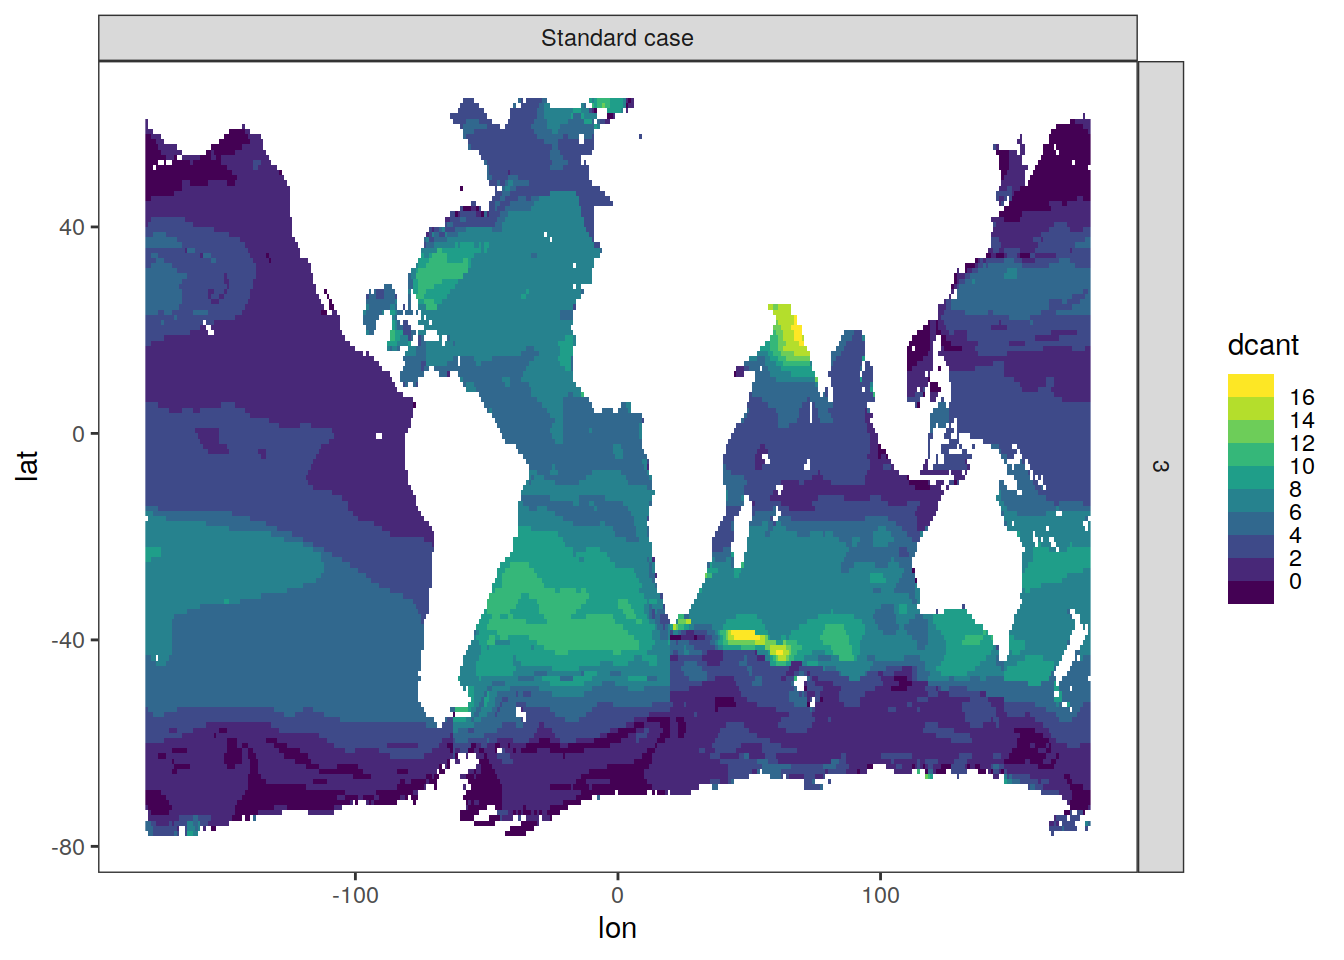
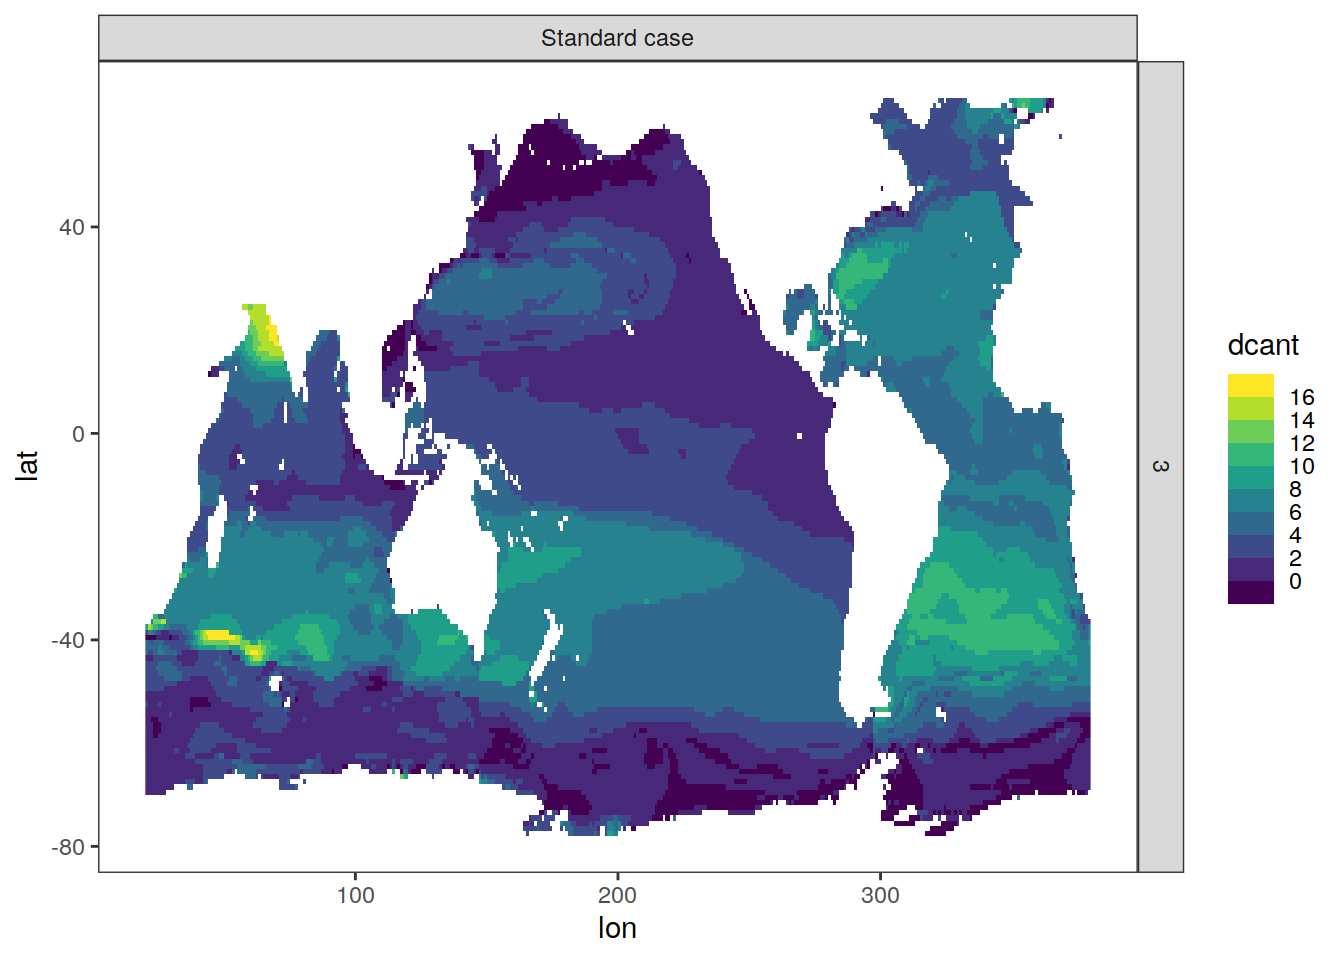
Build site.

diff --git a/docs/compute_OIA.html b/docs/compute_OIA.html
@@ -385,7 +385,7 @@ div.tocify {
 
 <h1 class="title toc-ignore">OIA computation</h1>
 <h4 class="author">Jens Daniel Müller</h4>
-<h4 class="date">22 October, 2023</h4>
+<h4 class="date">23 October, 2023</h4>
 
 </div>
 
@@ -414,7 +414,7 @@ class="glyphicon glyphicon-ok text-success" aria-hidden="true"></span>
 <div class="tab-content">
 <div id="summary" class="tab-pane fade in active">
 <p>
-<strong>Last updated:</strong> 2023-10-22
+<strong>Last updated:</strong> 2023-10-23
 </p>
 <p>
 <strong>Checks:</strong> <span
@@ -546,15 +546,15 @@ project makes it easier to run your code on other machines.</p>
 <div class="panel panel-default">
 <div class="panel-heading">
 <p class="panel-title">
-<a data-toggle="collapse" data-parent="#workflowr-checks" href="#strongRepositoryversionstrongahrefhttpsgithubcomjensdanielmuelleroceaninterioracidificationtree4f197d722cdc6802168fb30d444dffc202310ba9targetblank4f197d7a">
+<a data-toggle="collapse" data-parent="#workflowr-checks" href="#strongRepositoryversionstrongahrefhttpsgithubcomjensdanielmuelleroceaninterioracidificationtreeafe3b037bbba210018c9cf90bdb3f4d84c6400dbtargetblankafe3b03a">
 <span class="glyphicon glyphicon-ok text-success"
 aria-hidden="true"></span> <strong>Repository version:</strong>
-<a href="https://github.com/jens-daniel-mueller/ocean_interior_acidification/tree/4f197d722cdc6802168fb30d444dffc202310ba9" target="_blank">4f197d7</a>
+<a href="https://github.com/jens-daniel-mueller/ocean_interior_acidification/tree/afe3b037bbba210018c9cf90bdb3f4d84c6400db" target="_blank">afe3b03</a>
 </a>
 </p>
 </div>
 <div
[2 lines of base64/hex data omitted]
 class="panel-collapse collapse">
 <div class="panel-body">
 <p>
@@ -564,7 +564,7 @@ reproducibility.
 </p>
 <p>
 The results in this page were generated with repository version
-<a href="https://github.com/jens-daniel-mueller/ocean_interior_acidification/tree/4f197d722cdc6802168fb30d444dffc202310ba9" target="_blank">4f197d7</a>.
+<a href="https://github.com/jens-daniel-mueller/ocean_interior_acidification/tree/afe3b037bbba210018c9cf90bdb3f4d84c6400db" target="_blank">afe3b03</a>.
 See the <em>Past versions</em> tab to see a history of the changes made
 to the R Markdown and HTML files.
 </p>
@@ -634,6 +634,40 @@ Message
 </tr>
 </thead>
 <tbody>
+<tr>
+<td>
+Rmd
+</td>
+<td>
+<a href="https://github.com/jens-daniel-mueller/ocean_interior_acidification/blob/afe3b037bbba210018c9cf90bdb3f4d84c6400db/analysis/compute_OIA.Rmd" target="_blank">afe3b03</a>
+</td>
+<td>
+jens-daniel-mueller
+</td>
+<td>
+2023-10-23
+</td>
+<td>
+harmonized horizontal grid
+</td>
+</tr>
+<tr>
+<td>
+html
+</td>
+<td>
+<a href="https://rawcdn.githack.com/jens-daniel-mueller/ocean_interior_acidification/6aefd0346d4bbc1cc6f30fc083a453fb5cb0e11f/docs/compute_OIA.html" target="_blank">6aefd03</a>
+</td>
+<td>
+jens-daniel-mueller
+</td>
+<td>
+2023-10-23
+</td>
+<td>
+Build site.
+</td>
+</tr>
 <tr>
 <td>
 Rmd
@@ -1407,6 +1441,11 @@ rm(dcant_3d_read_mdim, file_out)
 dcant_3d_tibble &lt;- dcant_3d_tibble %&gt;% 
   drop_na()
 
+dcant_3d_tibble &lt;-
+  dcant_3d_tibble %&gt;% 
+  mutate(lon = ifelse(lon &lt; 20, lon + 360, lon))
+
+
 # remove negative delta Cant
 # dcant_3d_tibble &lt;- dcant_3d_tibble
 #   mutate(dcant = if_else(dcant &lt; 0, 0, dcant))
@@ -1604,7 +1643,7 @@ for (file in file_list) {
                           var = parameter))
   
 
-  # write csv file
+  # join error fields
   
   if (exists(&quot;GLODAP_predictors_error&quot;)) {
     GLODAP_predictors_error &lt;- full_join(GLODAP_predictors_error, clim_tibble)
@@ -1978,9 +2017,9 @@ predictors &lt;- rquery::natural_join(predictors, WOA18_predictors_nuts_O2,
                            jointype = &quot;LEFT&quot;) %&gt;% 
   as_tibble()
 
+
 predictors &lt;- predictors %&gt;% 
   drop_na()
-
 
 rm(GLODAP_predictors, WOA18_predictors_nuts_O2, WOA18_predictors)</code></pre>
 </div>
@@ -2009,8 +2048,6 @@ coord_grid &lt;-
   inner_join(coord_grid,
              GLODAP_predictors_error %&gt;%
                distinct(lon, lat, depth))
-
-
 
 # restrict CO2 fields to common grid
 
@@ -2276,7 +2313,15 @@ calc_delta_interval &lt;- function(x)
 </div>
 <div id="compute-acidification-trends" class="section level1">
 <h1>Compute acidification trends</h1>
-<pre class="r"><code>for (i in 1:nrow(cases)) {
+<pre class="r"><code># DIC %&gt;%
+#   distinct(lon, lat, tref, MLR_basin_mask) %&gt;%
+#   ggplot(aes(lon, lat)) +
+#   geom_raster(data = basinmask) +
+#   geom_raster(fill = &quot;red&quot;) +
+#   facet_grid(MLR_basin_mask~tref)
+
+
+for (i in 1:nrow(cases)) {
   # i &lt;- 1
   
   i_MLR_configuration &lt;-  cases[i, ]$MLR_configuration

diff --git a/docs/index.html b/docs/index.html
@@ -329,7 +329,7 @@ class="glyphicon glyphicon-ok text-success" aria-hidden="true"></span>
 <div class="tab-content">
 <div id="summary" class="tab-pane fade in active">
 <p>
-<strong>Last updated:</strong> 2023-10-22
+<strong>Last updated:</strong> 2023-10-23
 </p>
 <p>
 <strong>Checks:</strong> <span
@@ -377,15 +377,15 @@ results.</p>
 <div class="panel panel-default">
 <div class="panel-heading">
 <p class="panel-title">
-<a data-toggle="collapse" data-parent="#workflowr-checks" href="#strongRepositoryversionstrongahrefhttpsgithubcomjensdanielmuelleroceaninterioracidificationtree4f197d722cdc6802168fb30d444dffc202310ba9targetblank4f197d7a">
+<a data-toggle="collapse" data-parent="#workflowr-checks" href="#strongRepositoryversionstrongahrefhttpsgithubcomjensdanielmuelleroceaninterioracidificationtreeafe3b037bbba210018c9cf90bdb3f4d84c6400dbtargetblankafe3b03a">
 <span class="glyphicon glyphicon-ok text-success"
 aria-hidden="true"></span> <strong>Repository version:</strong>
-<a href="https://github.com/jens-daniel-mueller/ocean_interior_acidification/tree/4f197d722cdc6802168fb30d444dffc202310ba9" target="_blank">4f197d7</a>
+<a href="https://github.com/jens-daniel-mueller/ocean_interior_acidification/tree/afe3b037bbba210018c9cf90bdb3f4d84c6400db" target="_blank">afe3b03</a>
 </a>
 </p>
 </div>
 <div
[2 lines of base64/hex data omitted]
 class="panel-collapse collapse">
 <div class="panel-body">
 <p>
@@ -395,7 +395,7 @@ reproducibility.
 </p>
 <p>
 The results in this page were generated with repository version
-<a href="https://github.com/jens-daniel-mueller/ocean_interior_acidification/tree/4f197d722cdc6802168fb30d444dffc202310ba9" target="_blank">4f197d7</a>.
+<a href="https://github.com/jens-daniel-mueller/ocean_interior_acidification/tree/afe3b037bbba210018c9cf90bdb3f4d84c6400db" target="_blank">afe3b03</a>.
 See the <em>Past versions</em> tab to see a history of the changes made
 to the R Markdown and HTML files.
 </p>
@@ -464,6 +464,23 @@ Message
 </tr>
 </thead>
 <tbody>
+<tr>
+<td>
+html
+</td>
+<td>
+<a href="https://rawcdn.githack.com/jens-daniel-mueller/ocean_interior_acidification/6aefd0346d4bbc1cc6f30fc083a453fb5cb0e11f/docs/index.html" target="_blank">6aefd03</a>
+</td>
+<td>
+jens-daniel-mueller
+</td>
+<td>
+2023-10-23
+</td>
+<td>
+Build site.
+</td>
+</tr>
 <tr>
 <td>
 html
